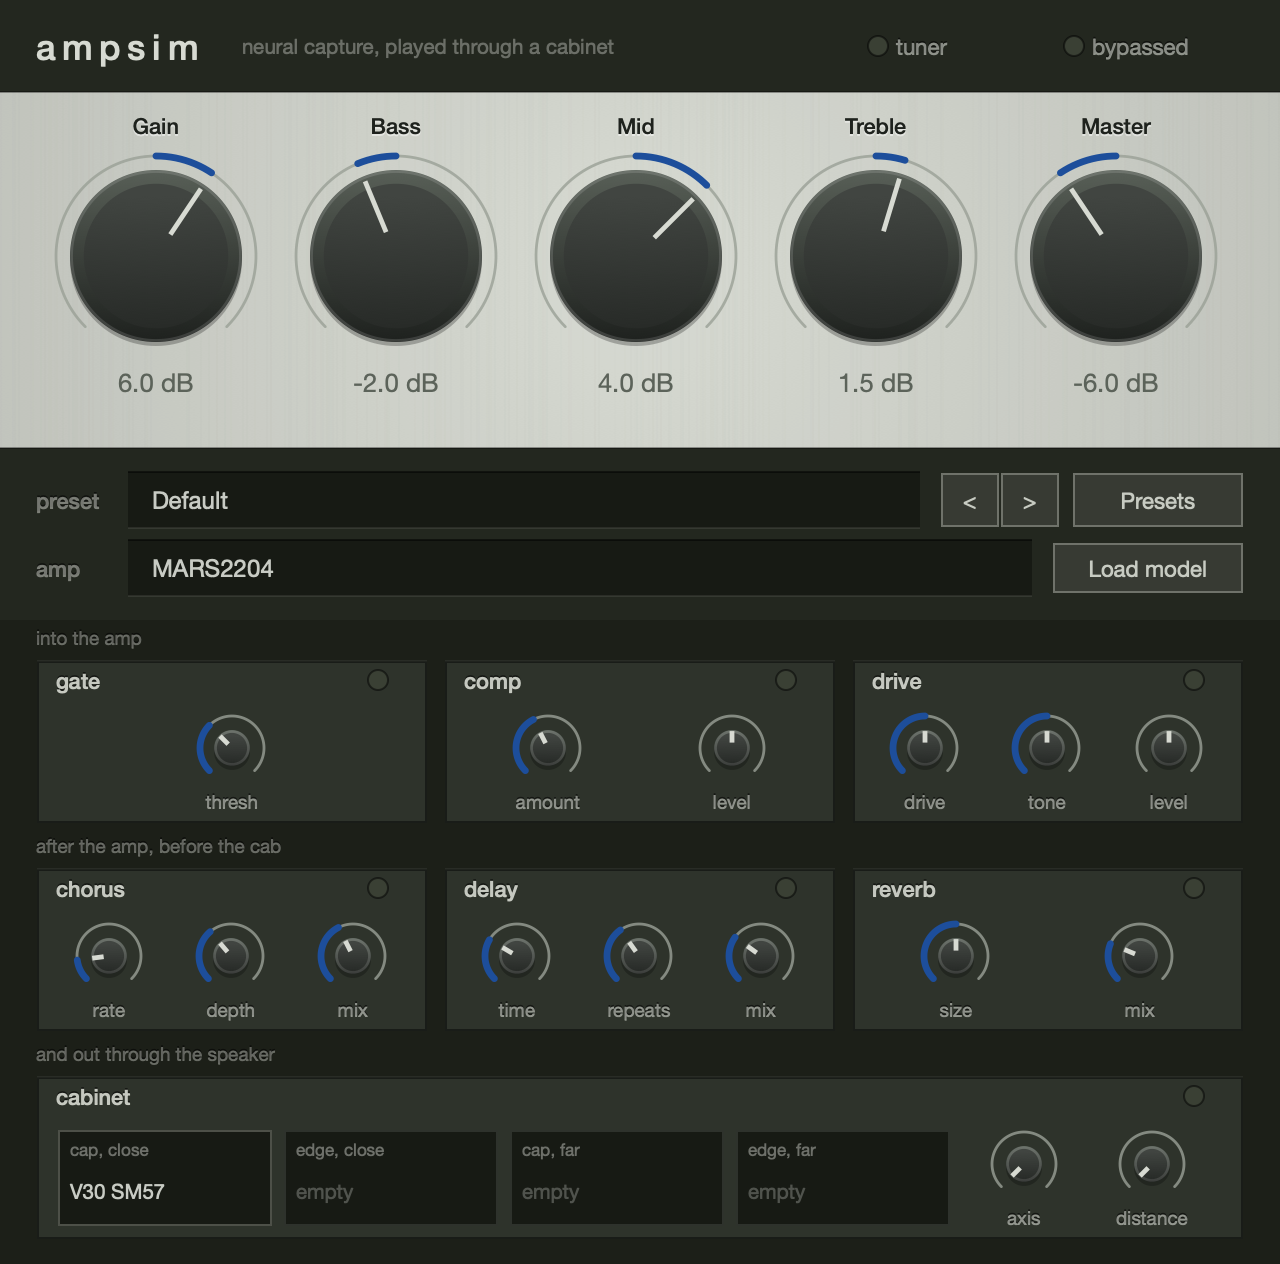
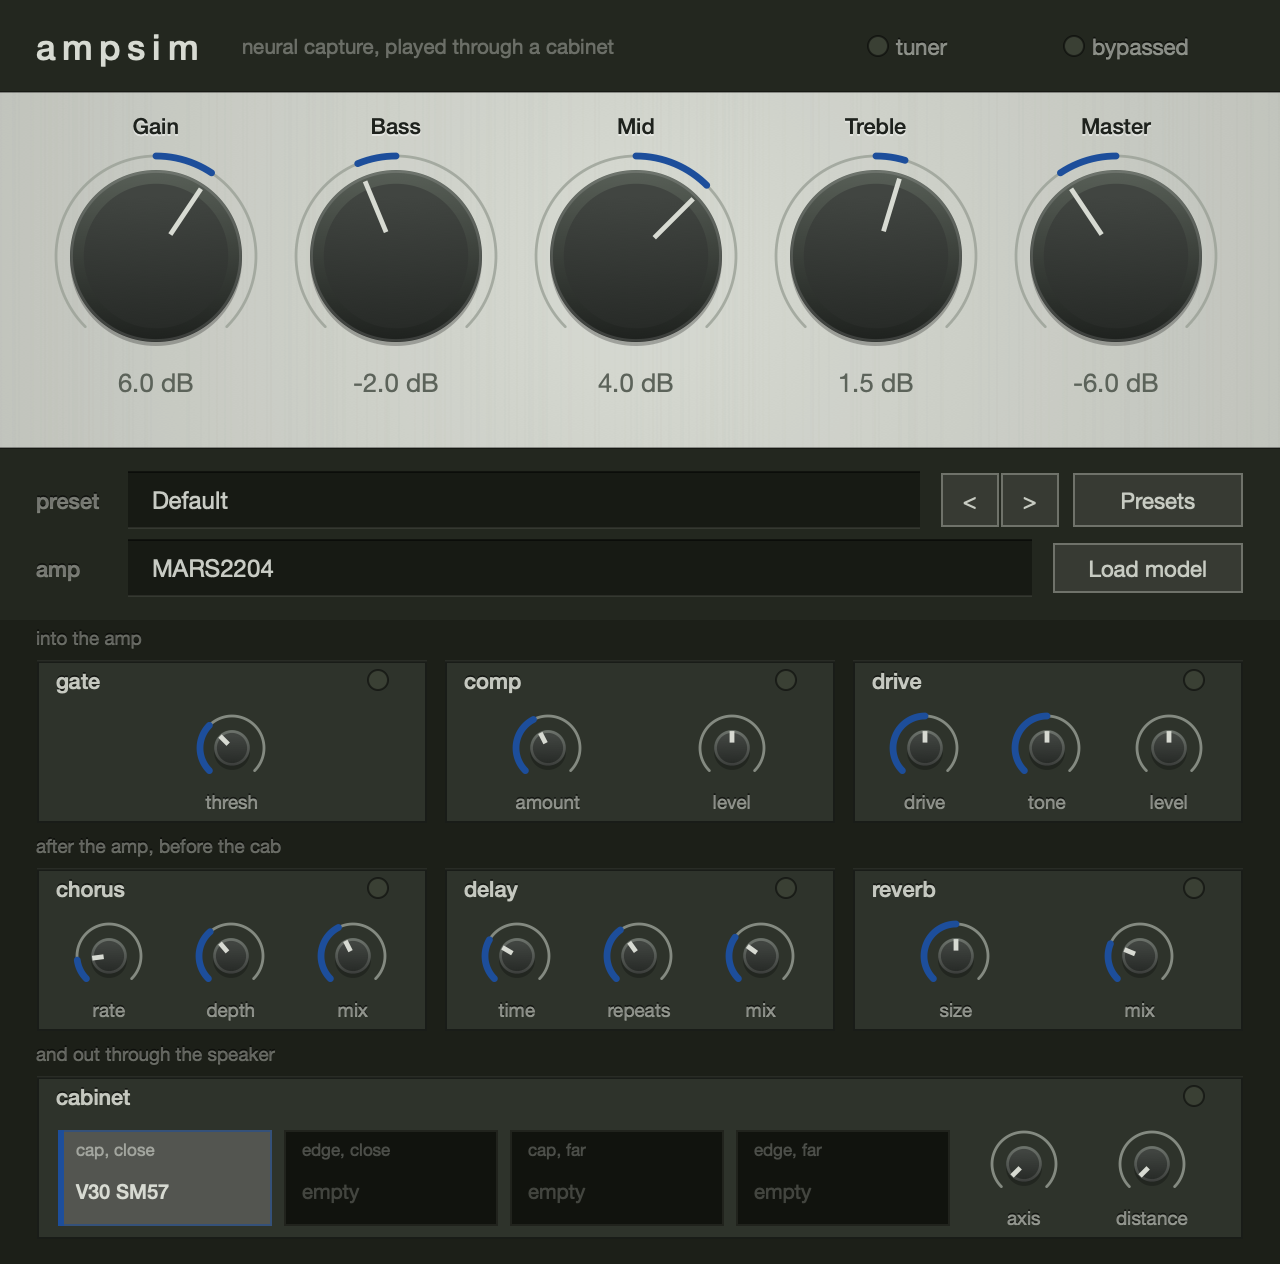
Make a filled cabinet corner obvious at a glance
Loaded and empty corners differed only in the alpha of a border and some text,
which is not a difference you notice without reading. Now everything differs:
the plate a filled corner is drawn on is lifted rather than sunk, it carries a
bar down its edge and a border in the blue that means "in your signal"
elsewhere on the panel, and both lines of its text are brighter, with the name
in medium weight.

Changed region(s): [[0.0312, 0.8948, 0.3125, 0.9873], [0.4062, 0.8948, 0.4688, 0.9565], [0.5938, 0.8948, 0.625, 0.9565]]

diff --git a/src/ui/CabinetRow.cpp b/src/ui/CabinetRow.cpp
@@ -35,24 +35,40 @@ void CabinetSlotButton::setContents (const juce::String& text, bool loaded)
 void CabinetSlotButton::paintButton (juce::Graphics& g, bool shouldDrawButtonAsHighlighted,
                                      bool shouldDrawButtonAsDown)
 {
-    auto bounds = getLocalBounds().toFloat().reduced (1.0f);
+    const auto bounds = getLocalBounds().toFloat().reduced (1.0f);
 
-    g.setColour (shouldDrawButtonAsDown ? AmpPalette::railRecess.darker (0.3f)
-                                        : (shouldDrawButtonAsHighlighted ? AmpPalette::railRecess.brighter (0.25f)
-                                                                         : AmpPalette::railRecess));
+    // A filled corner and an empty one should not be something you have to read to tell apart.
+    // Everything differs: the plate it is drawn on, the marker down its edge, the border, and the
+    // weight of both lines of text.
+    const auto lift = shouldDrawButtonAsDown ? -0.15f : (shouldDrawButtonAsHighlighted ? 0.25f : 0.0f);
+
+    g.setColour (isLoaded ? AmpPalette::railRecess.brighter (0.35f + lift)
+                          : AmpPalette::railRecess.darker (0.35f - lift));
     g.fillRect (bounds);
 
-    g.setColour (AmpPalette::enamel.withAlpha (isLoaded ? 0.28f : 0.12f));
-    g.drawRect (bounds, 1.0f);
+    if (isLoaded)
+    {
+        // The same blue that means "in your signal" everywhere else on the panel.
+        g.setColour (AmpPalette::reading);
+        g.fillRect (bounds.withWidth (3.0f));
 
-    auto text = getLocalBounds().reduced (7, 4);
+        g.setColour (AmpPalette::reading.withAlpha (0.55f));
+        g.drawRect (bounds, 1.0f);
+    }
+    else
+    {
+        g.setColour (AmpPalette::enamel.withAlpha (0.08f));
+        g.drawRect (bounds, 1.0f);
+    }
+
+    auto text = getLocalBounds().reduced (10, 4);
 
     g.setFont (AmpLookAndFeel::panelFont (10.0f));
-    g.setColour (AmpPalette::enamel.withAlpha (0.45f));
+    g.setColour (AmpPalette::enamel.withAlpha (isLoaded ? 0.6f : 0.3f));
     g.drawText (position, text.removeFromTop (13), juce::Justification::centredLeft, false);
 
-    g.setFont (AmpLookAndFeel::panelFont (12.0f));
-    g.setColour (AmpPalette::enamel.withAlpha (isLoaded ? 0.92f : 0.3f));
+    g.setFont (AmpLookAndFeel::panelFont (12.0f, isLoaded));
+    g.setColour (AmpPalette::enamel.withAlpha (isLoaded ? 1.0f : 0.25f));
     g.drawText (contents, text, juce::Justification::centredLeft, true);
 }
 
